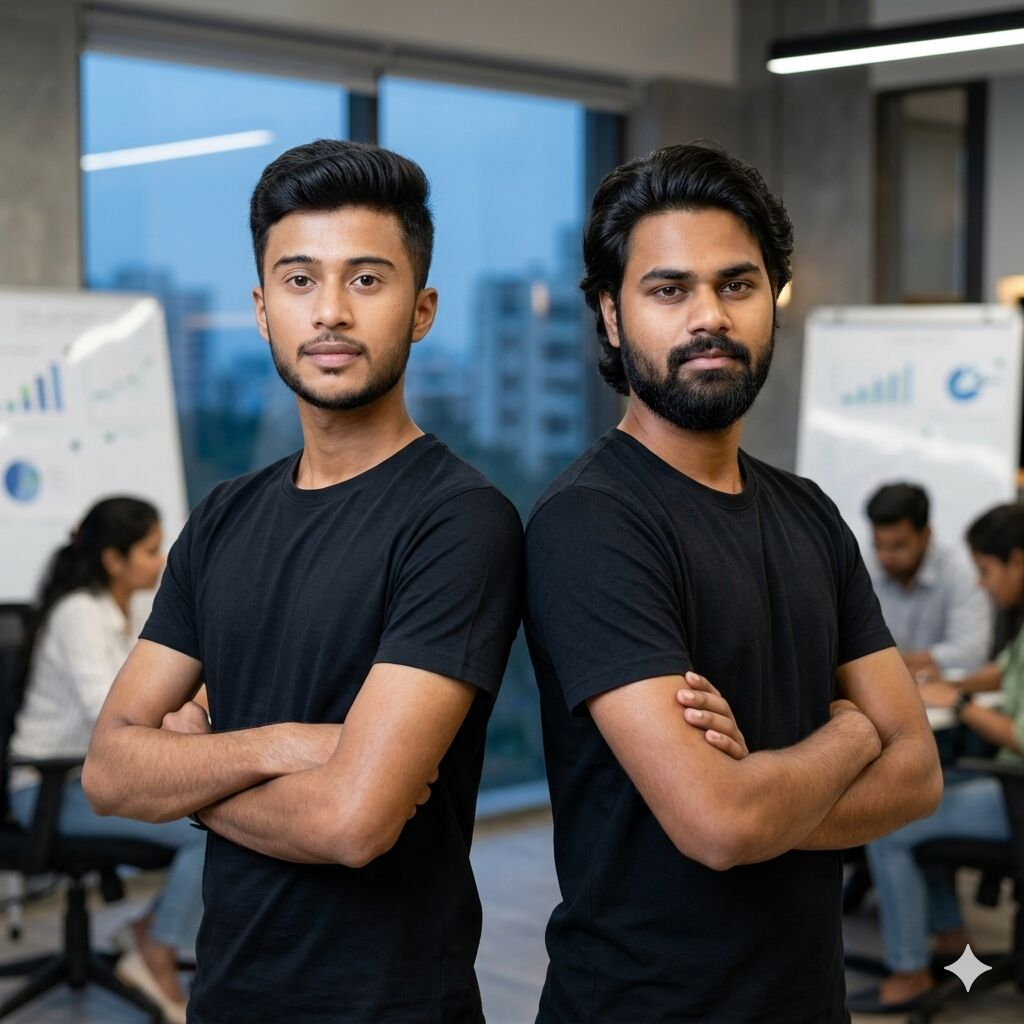
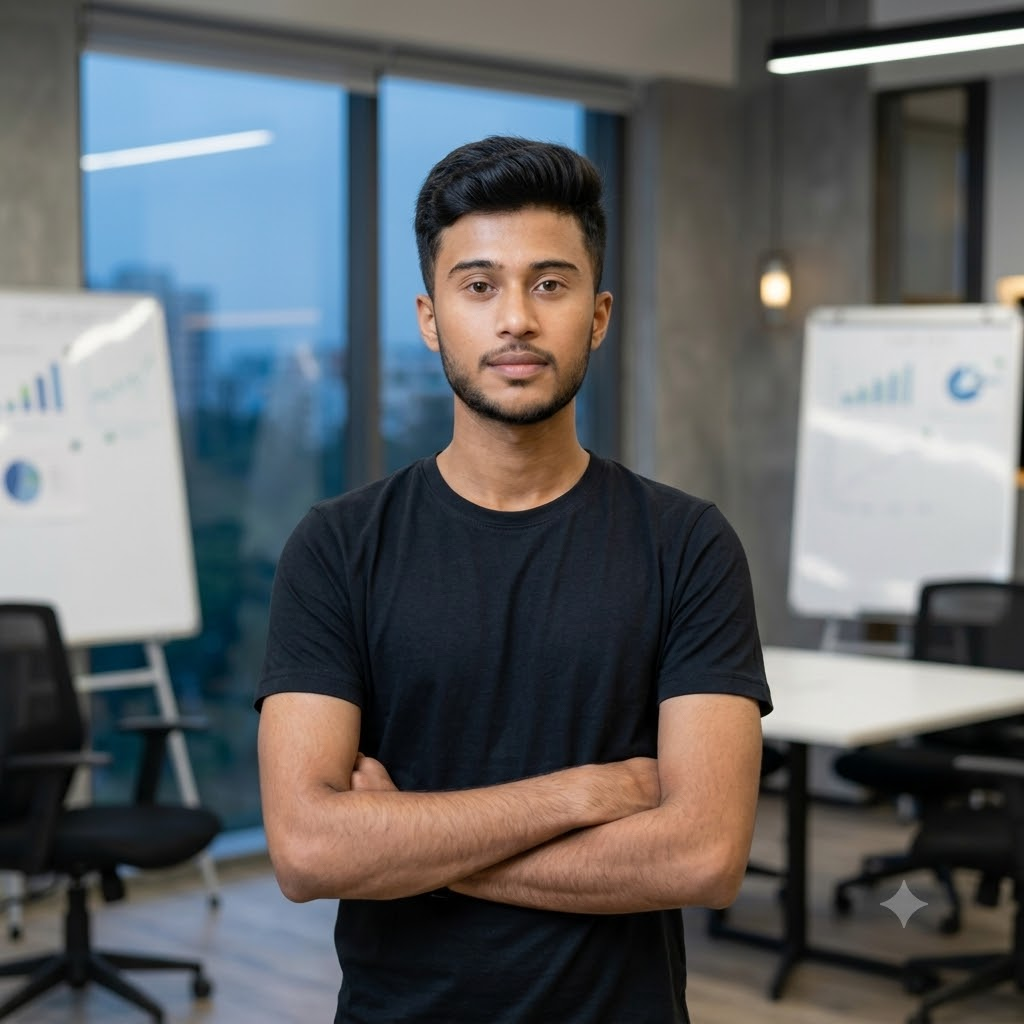
Final Images Modified

diff --git a/src/components/home/SocialProof.tsx b/src/components/home/SocialProof.tsx
@@ -5,27 +5,27 @@ import { cn } from "@/lib/utils";
 import { site } from "@/lib/site";
 
 const stats = [
-  { k: 40, suffix: "+", v: "Happy clients", note: "Across 9+ Indian states" },
-  { k: 65, suffix: "+", v: "Projects shipped", note: "Websites, apps & tools" },
+  { k: 100, suffix: "%", v: "Custom solutions", note: "Built for your exact needs" },
+  { k: 10, suffix: "+", v: "Projects shipped", note: "Websites, apps & tools" },
   { k: 98, suffix: "%", v: "On-time delivery", note: "Against written quotes" },
-  { k: 5000, prefix: "₹", suffix: "", v: "Starting price", note: "1 year online included" },
+  { k: 5000, prefix: "₹", suffix: "", v: "Starting price", note: "1 year online included"},
 ];
 
 const testimonials = [
   {
     quote:
-      "Our coaching institute went from 12 enquiries a month to 80+ after the new site. Admissions doubled in one quarter. ZenVioLabs actually answers WhatsApp at 11 PM — that's rare.",
+      "ZenVioLabs Built a Professional Modern Website for our Prabha Foundation",
     name: "Prabha Sharma",
-    role: "Director, Prabha Coaching Classes",
+    role: "Director, Prabha Foundation",
     initials: "PS",
     color: "from-emerald-500 to-teal-500",
     rating: 5,
   },
   {
     quote:
-      "They rebuilt our gym website in 9 days. Page load went from 8 seconds to under 1 second, and our form leads tripled in the first month. No jargon, no upsells.",
-    name: "Rohit Verma",
-    role: "Owner, FitZone Gym",
+      "They rebuilt our gym website in a weak. Page load went from 8 seconds to under 1 second, and our form leads tripled in the first month. No jargon, no upsells.",
+    name: "Annand Sharma",
+    role: "Owner, Muscle Mania GYM",
     initials: "RV",
     color: "from-orange-500 to-rose-500",
     rating: 5,
@@ -51,14 +51,14 @@ const testimonials = [
 ];
 
 const logos = [
-  "FitZone Gym",
-  "Prabha Classes",
-  "Iyer Dental",
-  "Mehta Dist.",
+  "Muscle Mania Gym",
+  "Prabha Foundation",
+  "Ecommerse Store",
+  "Home Shine",
   "Asklytics",
-  "ShopDesi",
-  "Studio Aura",
-  "NexusCare",
+  "Employe Management",
+  "School Website",
+  "Contact Manager App",
 ];
 
 const useCountUp = (target: number, start: boolean, duration = 1600) => {

diff --git a/src/components/home/Hero.tsx b/src/components/home/Hero.tsx
@@ -89,13 +89,13 @@ export const Hero = () => (
               </Button>
             </Magnetic>
           </div>
-          <p className="mt-3 text-xs text-foreground/55">
+          <p className="mt-8 text-xs text-foreground/70">
             One short form → lands on our WhatsApp + email. Reply within{" "}
             <span className="font-semibold text-emerald-500">{site.responseTime}</span>.
             No spam, no newsletter.
           </p>
 
-          {/* Micro proof row */}
+          {/* Micro proof row
           <div className="mt-7 flex flex-wrap items-center gap-x-5 gap-y-2 text-[12px] text-foreground/55">
             <span className="flex items-center gap-1.5">
               <span className="flex -space-x-2">
@@ -116,7 +116,7 @@ export const Hero = () => (
               <CheckCircle2 className="h-3.5 w-3.5 text-emerald-500" />
               Starts at {site.startingPrice}
             </span>
-          </div>
+          </div> */}
         </div>
 
         {/* Right column */}
